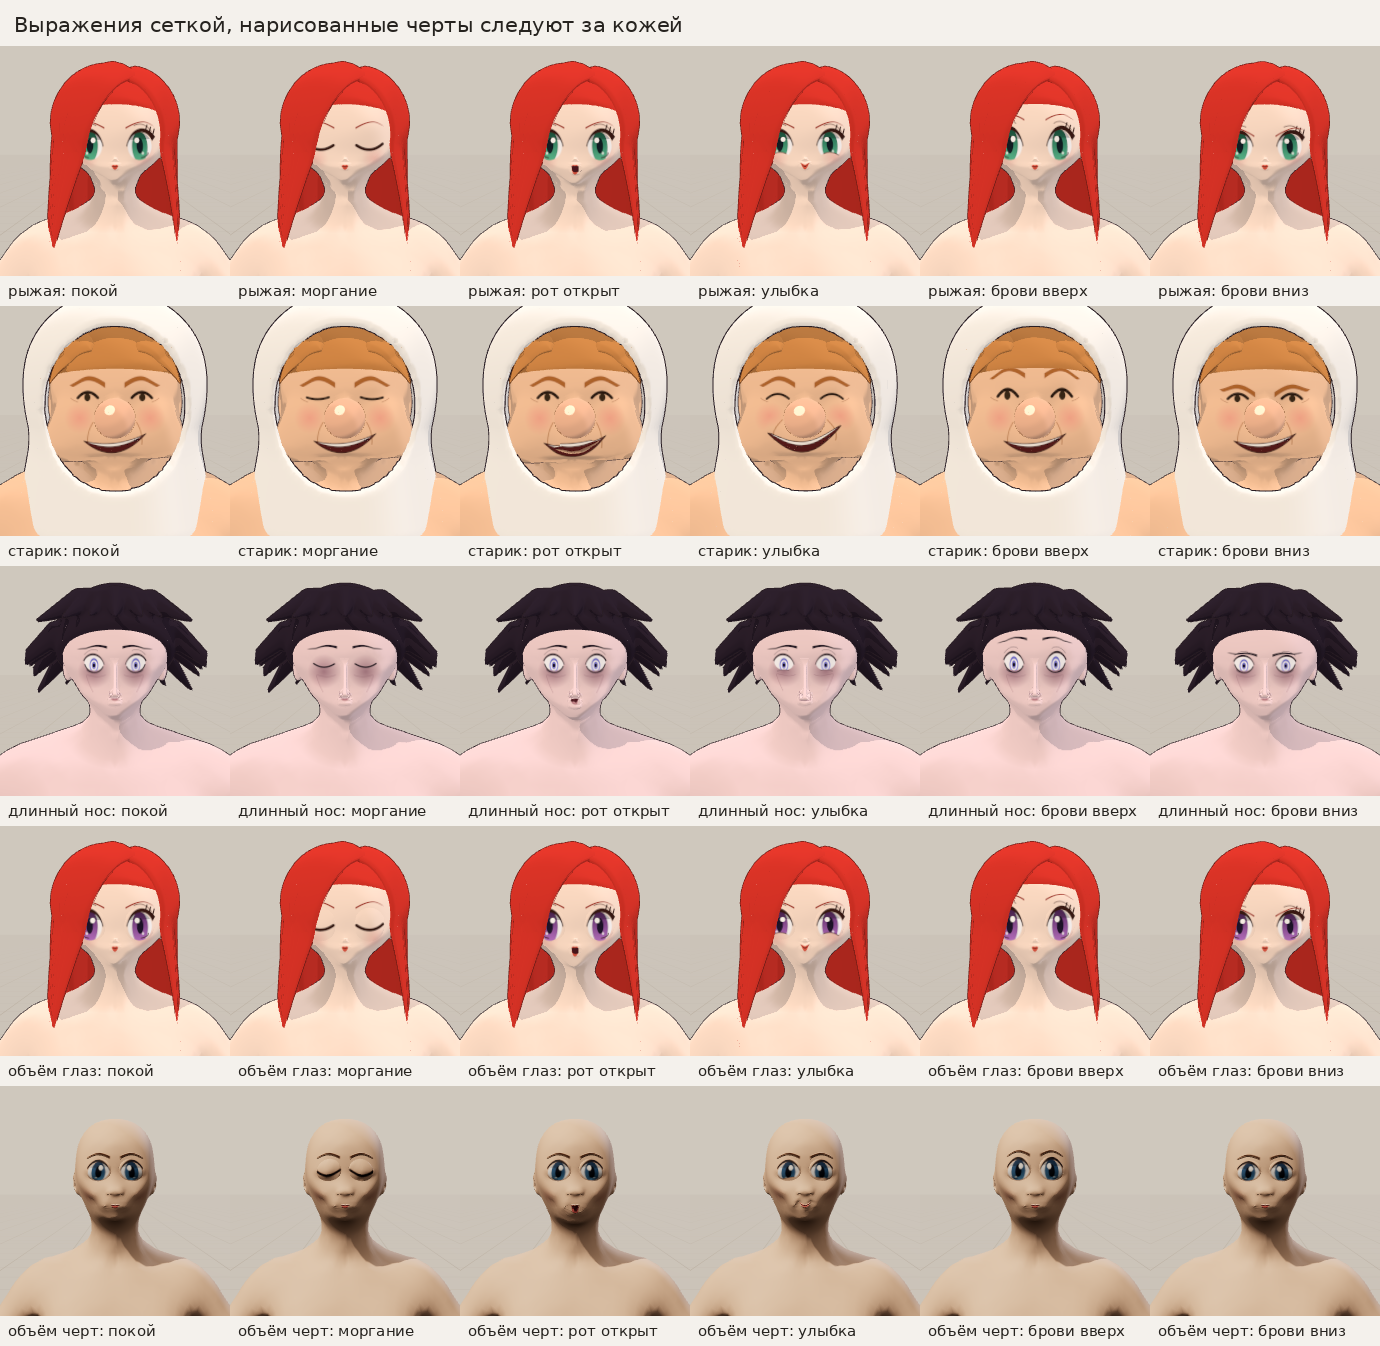
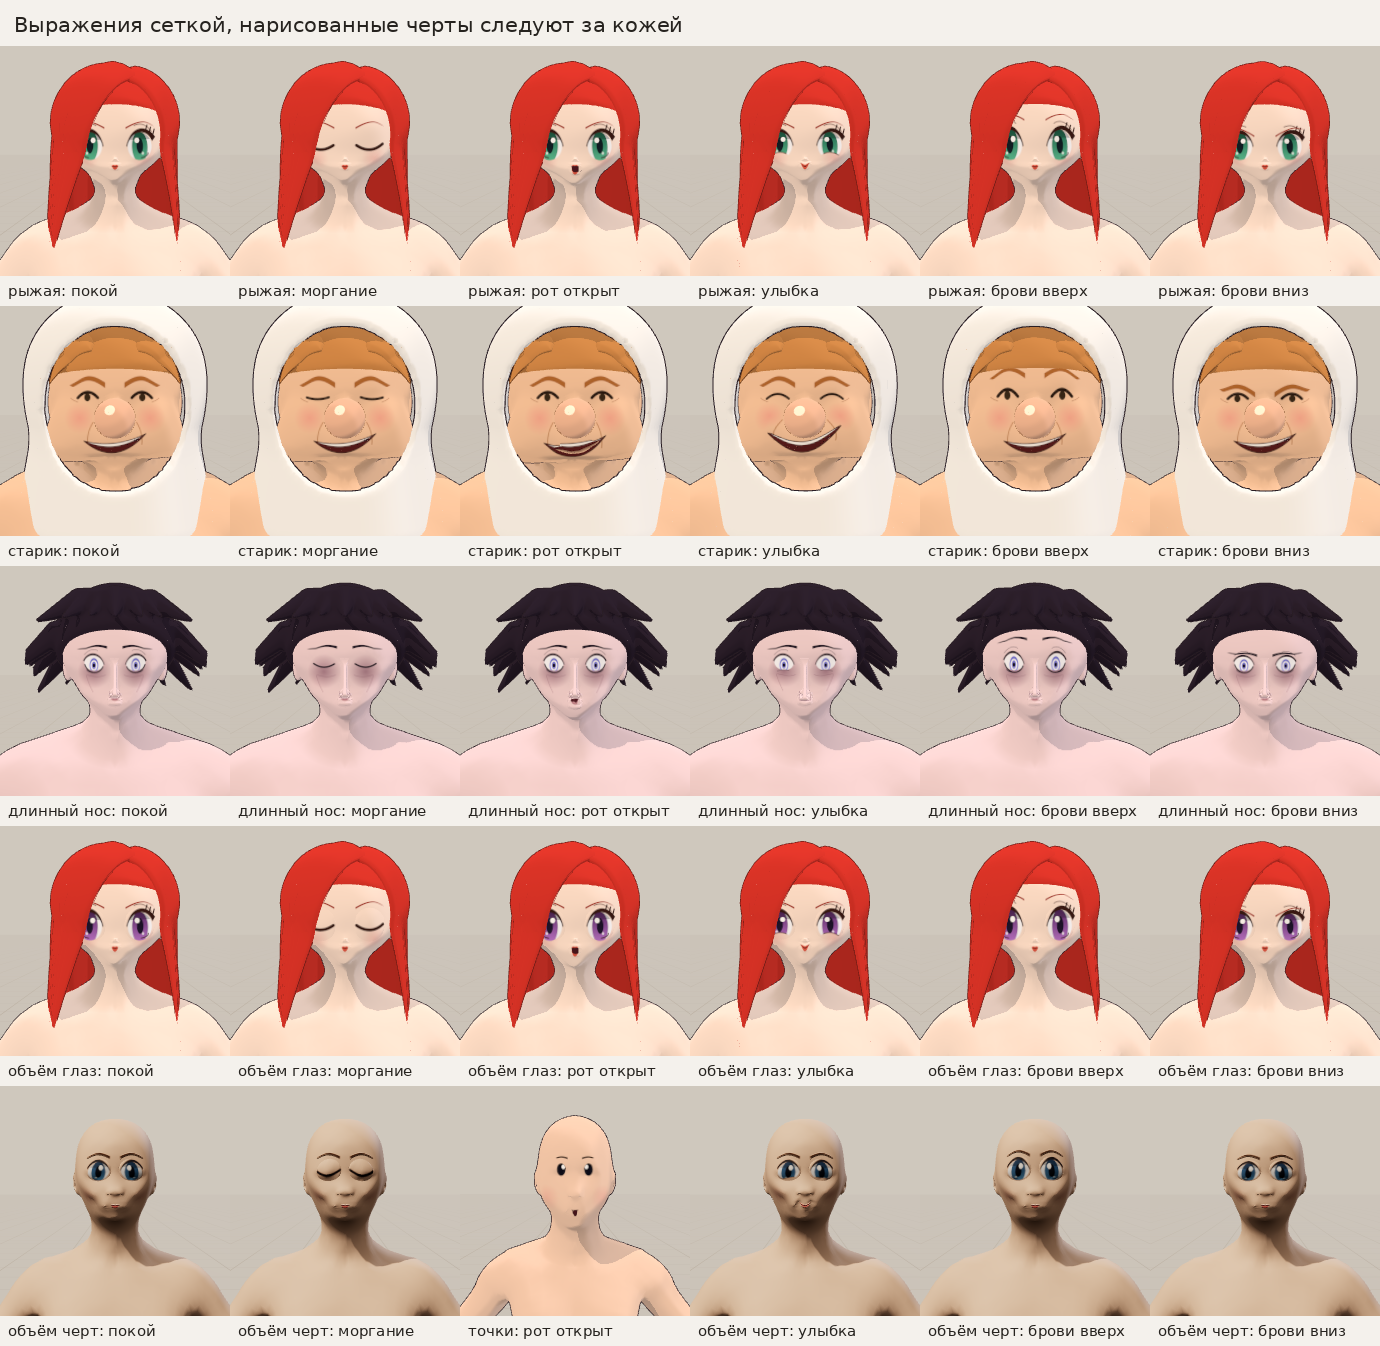
Heads: no open mouth on Anny's own head with lips as volume (it read as a square hole); sheets show the painted one; the dark under the soft chin explained (its form's shading); README, history
Claude-Session: https://claude.ai/code/session_01WT1L4WUXxwtY2e2xCgmLRw

Changed region(s): [[0.3116, 0.8113, 0.4986, 0.9985]]

diff --git a/docs/history/2026-11-04-engine-heads-fixes.md b/docs/history/2026-11-04-engine-heads-fixes.md
@@ -91,3 +91,15 @@ toon light, the neck join in plain light, the old man's grin opening; the viewer
 `node engine/tools/sheets.mjs engine/tools/sheets/heads.json` (a new sheet `fixes`), `node engine/tools/overlay.mjs`.
 Checks: `units.mjs`, `quality.mjs`, `numbers.mjs`, `pictures.mjs` — stored numbers and pictures refreshed for the head
 characters only (every `head-*` case), after looking; bodies and every other character unchanged.
+
+**After the lead agent looked (same day).** Two things were raised on the heads without a wrap. The dark patch round the
+mouth and down the jaw on "Anny's face by her settings": this is shading, not a fault in the mesh. Her soft-chin preset
+(chin lower and drawn back) turns the skin under the mouth downward, away from the key light and into the floor's
+darker light. The patch stays the same with cast shadows off and with the features off, and it goes when the chin
+preset is left out. The dark band on the neck is the head's cast shadow, as on the plain body. Two fixes were tried and
+taken back. Easing the cast shadow where the skin turns from the light changed nothing. Smoothing the face changes over
+moood's mesh pulled the closed eye slit open, and the picture check failed. The open mouth on Anny's own head with lips
+as volume read as a square hole with a tongue. Her mouth is closed skin, so the jaw parts the two lip reliefs over
+stretched skin, and this can't be made to read well. So `head-points` and `head-anny-age` no longer take the open mouth
+(`{kind: "off", name: "open"}`; README). A painted mouth on her head (`head-cage`) opens as a small dark mouth, and the
+sheets show that one instead.

diff --git a/engine/README.md b/engine/README.md
@@ -483,7 +483,10 @@ the clothes' stage makes garments of it (stage 4), and no clothes are carried (t
 is carried as one (by the affine change of the skin under it): it can't follow the head's own unevenness — a bigger
 head grows its cranium more than its face, a piece's far side lags by a few millimetres. The old man's nape and jowls
 keep the ledge his Г3 form has (his cranium over a thick neck, jowls over it). A drawn mouth is set on where its lips
-part after the wrap's easing (up to ~5 mm from its design on the long-nosed man). Expressions are one at a time
+part after the wrap's easing (up to ~5 mm from its design on the long-nosed man). On Anny's own head, lips as volume don't open well:
+her mouth is closed skin, and an open jaw parts the two reliefs over a square gap of stretched, painted skin that reads
+as a hole with a tongue — the two plain heads with lips as volume (`head-points`, `head-anny-age`) take no open mouth
+(`{kind: "off", name: "open"}`); a painted mouth on her head opens as a small dark mouth. Expressions are one at a time
 (blending them, mouth shapes for speech, a gaze that follows: not now); a closing eye is drawn graded by its weight, a
 smile's happy eyes switch at half. Toon light on a head without a designed form (Anny's own, deformed) shows the mesh's
 small forms as hard tones.
